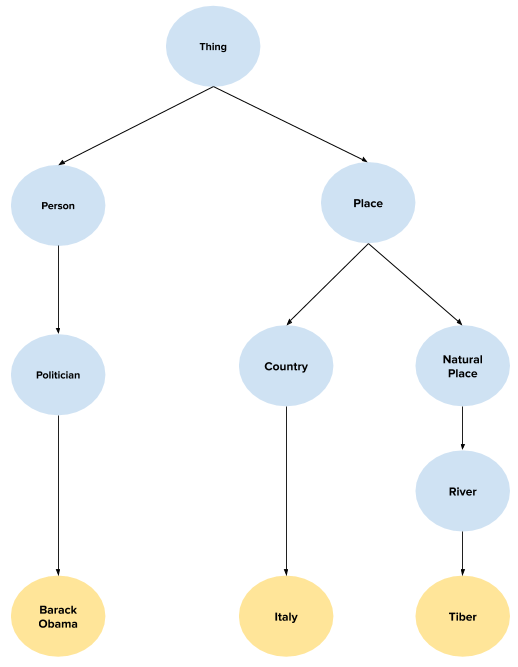
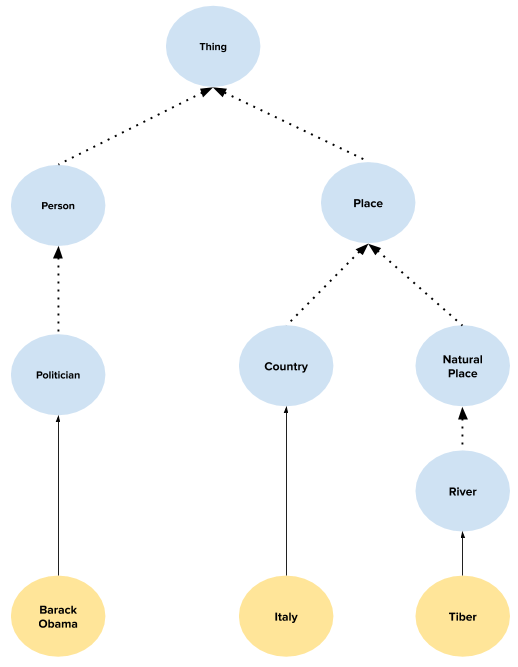
adding image to text + description

diff --git a/_posts/2020-12-09-distributional-semantics-ontological-concepts.md b/_posts/2020-12-09-distributional-semantics-ontological-concepts.md
@@ -29,6 +29,10 @@ ontological representation learning.
 Ontological concepts are used to categorize entities. For example, the concept that categorize Barack Obama and Donald Trump, might be **Politician**. Concepts are also referred to as types.
 Types are also often organized in hierarchies, indicating subclass of relationships: for example, the type Politician is subclass of the type **Person**.
 
+The following image shows an ontology[^3] with some entities (often referred to as instances). **Barack Obama**, **Italy** and **Tiber** are entities (yellow circles), while the others are Types (**Thing** is a special super type in this case). We can see that the types are organized in a hierarchy. The dotted lines represent a subclass of relationships, meaning, for example, that a Politician is also a Person. Normal lines instead represent an **instance of** predicate, meaning that **Barack Obama** is a **Politician** (but also a **Person**, and a **Thing**).
+
+![](https://github.com/vinid/vinid.github.io/raw/f316aaad1119e9257f833f3587706a27d1857f5f/images/posts/ds/blog_ontology_hierarchy.png)
+
 ### Similarity
 
 One important task is to define how similar are two different ontological concepts. In the literature this has often been done with distance measures over the hierarchy. There are many different measures that can be considered,[^2] but they share all the same basic idea of distance.
@@ -63,7 +67,7 @@ We can use a simple trick to create distributional representations of ontologica
 The following figure shows the process with simple and high level steps. 
 ![](https://github.com/vinid/vinid.github.io/raw/master/images/posts/ds/ds_process_types.jpg)
 
-The key difference between this representation and the other standard metric used for similarity evaluation is that this kind of representation allow us to evaluate a usage-based similarity between concepts
+The key difference between this representation and the other standard metric used for similarity evaluation is that this kind of representation allow us to evaluate a usage-based similarity between concepts. We can see some examples in the next table.
 
 | Type 1           | Type 2                  | Sim - wpath | Sim - T2V |
 |------------------|-------------------------|-------------|-----------|
@@ -75,7 +79,7 @@ The key difference between this representation and the other standard metric use
 | dbo:Company      | dbo:Airline             | 0.72        | 0.30      |
 
 
-
+What is clear, is that the T2V similarity gives a different interperetation to the concept of similar ty: SoccerPlayer and SoccerClub are similar because they co-occur in similar contexts; however, a Company and an Airline are indeed related but not very similar has they might occur in different contexts.
 
 
 ## To Know More
@@ -90,3 +94,4 @@ such as ELMo and BERT tend to be used.
 
 [^1]: This is true for the version of word2vec without negative sampling, that is slightly different.
 [^2]: See **Zhu, G., & Iglesias, C. A. (2016). Computing semantic similarity of concepts in knowledge graphs. IEEE Transactions on Knowledge and Data Engineering, 29(1), 72-85.** for an interesting discussion over different measures.
+[^3]: This ontology is strongly inspired by the DBpedia Ontology.
